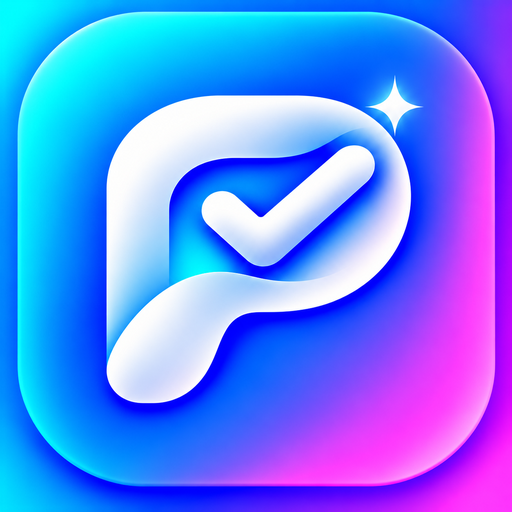
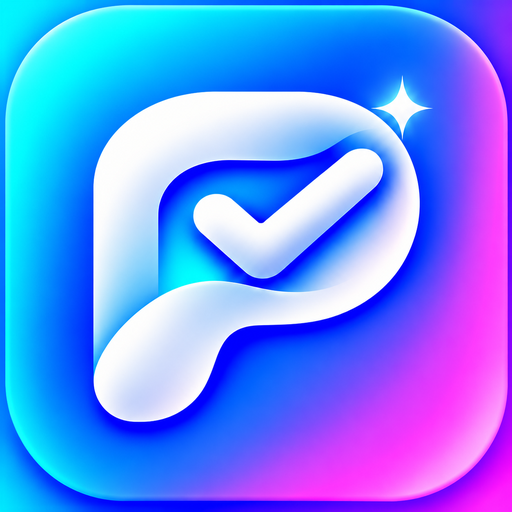
feat(assets): 앱 아이콘 원본 v4 교체 (네온 그라데이션 P + 별빛)
풀블리드 신규 원본으로 마스터 교체 후 파생 전량 재생성.
maskable은 엣지-스트레치 78% 렌더 유지.

Generated with [Devin](https://devin.ai)

diff --git a/docs/dev/CHANGES.md b/docs/dev/CHANGES.md
@@ -1,5 +1,9 @@
 # 코드 리뷰 수정 내역 (1~12 순차수정)
 
+## 2026-11-03 feat(assets): 앱 아이콘 원본 v4 교체 (네온 그라데이션 P + 별빛)
+
+- 풀블리드 신규 원본으로 마스터 교체 — 512·192·180·favicon·maskable 전부 재생성, 루트+시험별 manifest 재스탬프
+
 ## 2026-11-03 fix(assets): maskable 엣지-스트레치 배경 + 아이콘 원본 v3 교체
 
 - 사용자 피드백(별 잘림·P 과대) 반영 — 아트워크 78% 축소 + 여백은 원본 최외곽 1px 행/열 스트레치로 그라디언트 연장 (단색·블러·이중 프레임 대안 대비 자연스러움)
